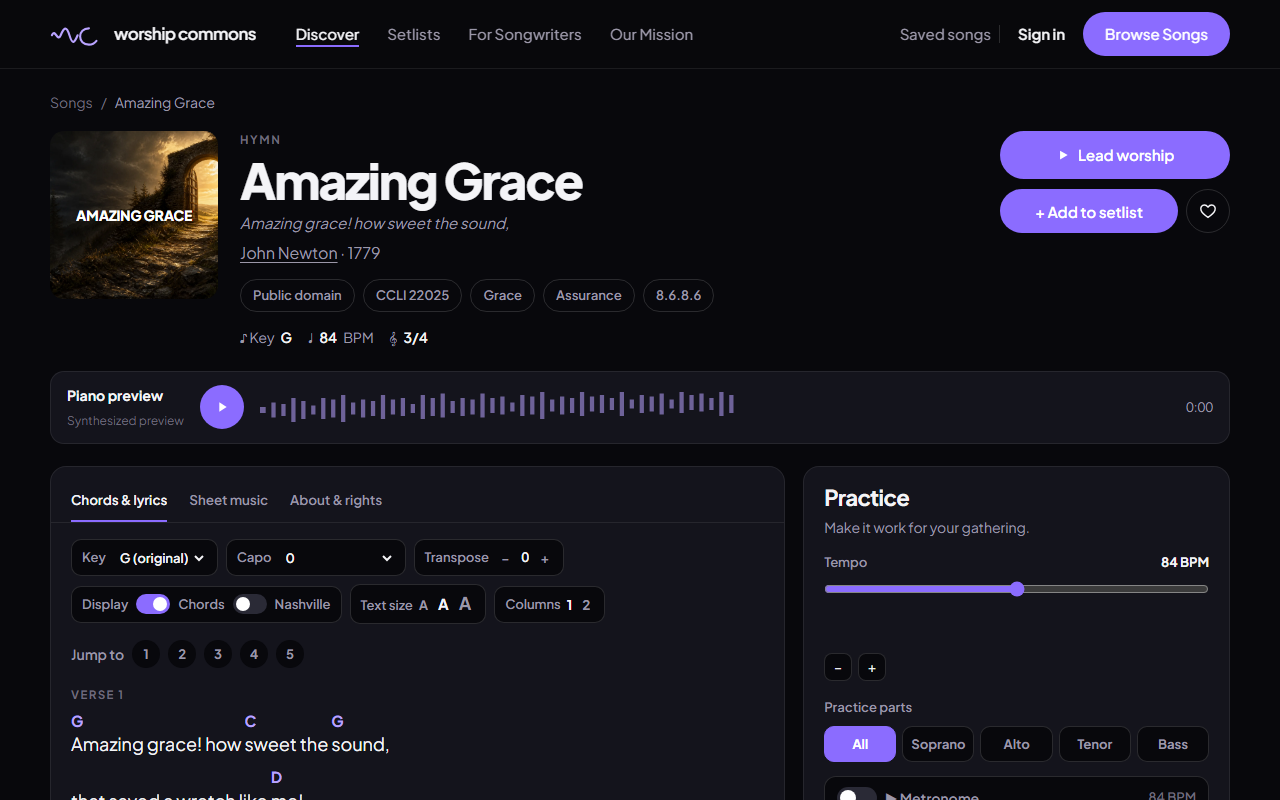
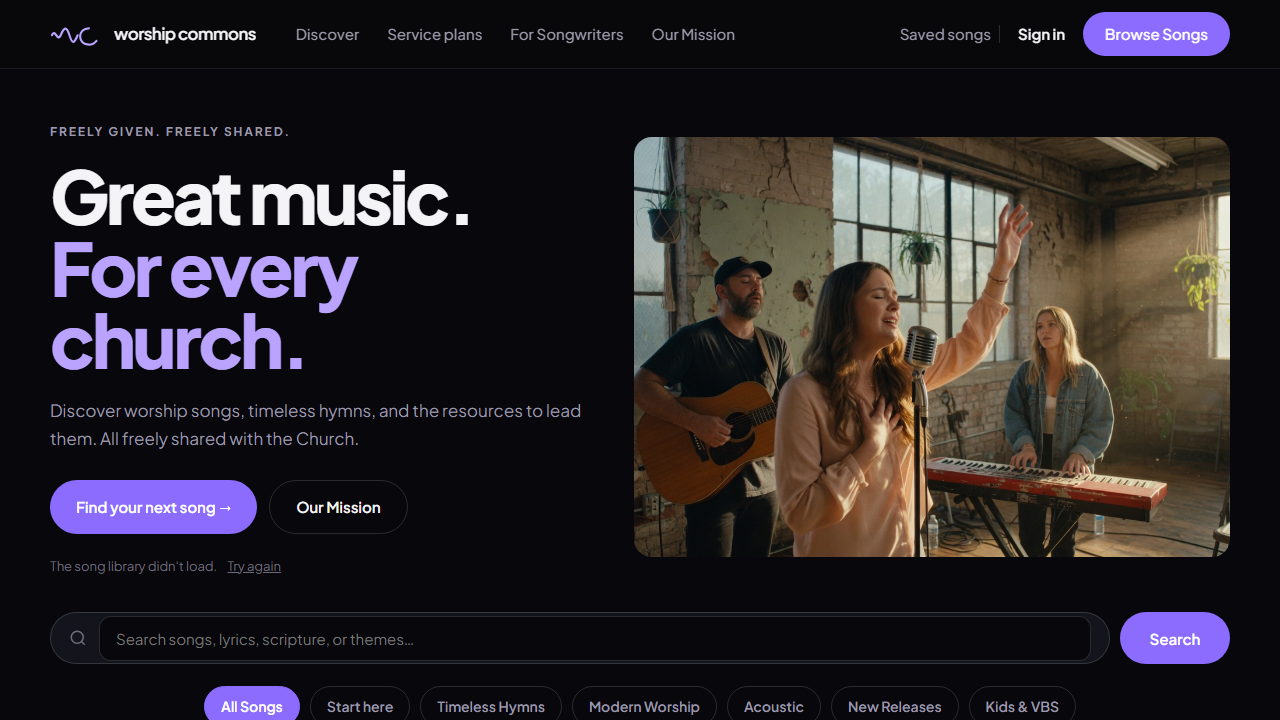
feat: keep the catalog loaded and fix the share line
Hold the song list for five minutes instead of dropping it when the tab regains focus. A failed catalog or song request shows a retry, rather than "0 songs" or "Song not found."

Share text no longer says a license is unnecessary. The public-domain deed still says commercial use is free.

Tests: catalog-load.spec.ts (5), prerender.test.mjs (14), locale key check.

diff --git a/tests/catalog-load.spec.ts b/tests/catalog-load.spec.ts
@@ -1,0 +1,82 @@
+import { test, expect } from "@playwright/test";
+
+const SONG = {
+  id: "YxPfAFYWOaG",
+  title: "Amazing Grace",
+  writer: "John Newton",
+  year: 1779,
+  language: "English",
+  license: "PD",
+  themes: "Grace",
+  songKey: "G",
+  bpm: 90,
+  timeSignature: "3/4",
+  confidence: "score",
+  hasChords: true,
+  hasScore: true,
+  sundayReady: false,
+  fileUrls: {},
+  downloadCount: 3,
+  saveCount: 1,
+  rank: 10
+};
+
+const isList = (url: string) => new URL(url).pathname.endsWith("/commons/songs");
+const isPage = (url: string) => /\/commons\/songs\/[^/]+\/page$/.test(new URL(url).pathname);
+
+test("home offers a retry when the catalog fails, and does not claim zero songs", async ({ page }) => {
+  let fail = true;
+  await page.route(isList, route => fail ? route.abort() : route.fulfill({ json: [SONG] }));
+  await page.goto("/");
+  await expect(page.getByTestId("catalog-error")).toBeVisible();
+  await expect(page.getByTestId("home-langs")).toHaveCount(0);
+  await expect(page.getByText("0 songs")).toHaveCount(0);
+  await page.addStyleTag({ content: ".rise{animation:none!important;opacity:1!important}" });
+  await page.getByTestId("catalog-error").scrollIntoViewIfNeeded();
+  await page.screenshot({ path: ".pr-screenshots/after.png" });
+  fail = false;
+  await page.getByTestId("catalog-retry").click();
+  await expect(page.getByTestId("home-langs")).toHaveText("1 languages");
+});
+
+test("library offers a retry instead of an empty catalog", async ({ page }) => {
+  await page.route(isList, route => route.abort());
+  await page.goto("/songs");
+  await expect(page.getByTestId("catalog-error")).toBeVisible();
+  await expect(page.getByText("No songs found")).toHaveCount(0);
+});
+
+test("a fresh catalog survives tab focus", async ({ page }) => {
+  let hits = 0;
+  await page.route(isList, route => { hits += 1; return route.fulfill({ json: [SONG] }); });
+  await page.goto("/");
+  await expect(page.getByRole("link", { name: "Amazing Grace" }).first()).toBeVisible();
+  await page.addStyleTag({ content: ".rise{animation:none!important;opacity:1!important}" });
+  await page.getByTestId("home-langs").scrollIntoViewIfNeeded();
+  await page.screenshot({ path: ".pr-screenshots/before.png" });
+  const afterLoad = hits;
+  await page.evaluate(() => window.dispatchEvent(new Event("focus")));
+  await page.getByRole("link", { name: "Find your next song" }).first().click();
+  await expect(page.getByRole("link", { name: "Amazing Grace" }).first()).toBeVisible();
+  expect(hits).toBe(afterLoad);
+});
+
+test("a song request that fails is not shown as a missing song", async ({ page }) => {
+  let fail = true;
+  await page.route(isPage, route => fail
+    ? route.fulfill({ status: 500, contentType: "application/json", body: "{}" })
+    : route.fulfill({ json: { song: SONG, history: [], family: [], similar: [] } }));
+  await page.goto("/songs/amazing-grace-YxPfAFYWOaG");
+  await expect(page.getByTestId("song-load-error")).toBeVisible();
+  await expect(page.getByText("Song not found.")).toHaveCount(0);
+  fail = false;
+  await page.getByTestId("song-retry").click();
+  await expect(page.getByRole("heading", { name: "Amazing Grace" })).toBeVisible();
+});
+
+test("a missing song is still not found", async ({ page }) => {
+  await page.route(isPage, route => route.fulfill({ status: 404, contentType: "application/json", body: "{}" }));
+  await page.goto("/songs/amazing-grace-YxPfAFYWOaG");
+  await expect(page.getByText("Song not found.")).toBeVisible();
+  await expect(page.getByTestId("song-load-error")).toHaveCount(0);
+});

diff --git a/src/pages/Songs.tsx b/src/pages/Songs.tsx
@@ -66,6 +66,8 @@ export const Songs: React.FC = () => {
   usePageMeta(t("Song library — WorshipCommons"), t("Search free worship songs by theme, scripture, key, tempo, or language. Chord charts and lyrics in any key."));
   const [params] = useSearchParams();
   const [songs, setSongs] = useState<Song[]>([]);
+  const [catalogStatus, setCatalogStatus] = useState<"loading" | "ready" | "error">("loading");
+  const [catalogAttempt, setCatalogAttempt] = useState(0);
   const [state, setState] = useState<Filters>(() => ({
     q: (params.get("q") || "").trim().toLowerCase(),
     themes: new Set(params.get("theme") ? [params.get("theme")] : []),
@@ -102,7 +104,15 @@ export const Songs: React.FC = () => {
     wantRef.current = null;
   };
 
-  useEffect(() => { loadSongs().then(setSongs); }, []);
+  useEffect(() => {
+    let live = true;
+    loadSongs().then(rows => {
+      if (!live) return;
+      setSongs(rows);
+      setCatalogStatus("ready");
+    }).catch(() => { if (live) setCatalogStatus("error"); });
+    return () => { live = false; };
+  }, [catalogAttempt]);
   // facet counts run matches() once per song per facet value — build the search text once, not tens of thousands of times
   const haystacks = useMemo(() => new Map(songs.map(s => [s, [s.title, s.writer, s.scripture, s.themes, s.firstLine, s.tune].join(" ").toLowerCase()])), [songs]);
   useEffect(() => () => stopAll(), []);
@@ -362,9 +372,13 @@ export const Songs: React.FC = () => {
           <div className="results-head">
             {/* numbers only — no user content in the interpolated values */}
             <span className="count" id="count" dangerouslySetInnerHTML={{
-              __html: list.length
-                ? t("Showing <b>{from}–{to}</b> of <b>{total}</b> songs", { from: (start + 1).toLocaleString(), to: (start + slice.length).toLocaleString(), total: list.length.toLocaleString() })
-                : t("No songs found")
+              __html: catalogStatus === "loading"
+                ? t("Loading…")
+                : catalogStatus === "error"
+                  ? t("The song library didn't load.")
+                  : list.length
+                    ? t("Showing <b>{from}–{to}</b> of <b>{total}</b> songs", { from: (start + 1).toLocaleString(), to: (start + slice.length).toLocaleString(), total: list.length.toLocaleString() })
+                    : t("No songs found")
             }} />
             <span id="active-chips">
               {chips.map(c => (
@@ -406,6 +420,12 @@ export const Songs: React.FC = () => {
                     </div>);
                 })}
               </div>
+            </div>
+          )}
+          {catalogStatus === "error" && (
+            <div className="empty" data-testid="catalog-error">
+              <h3>{t("The song library didn't load.")}</h3>
+              <p><button type="button" className="text-retry" data-testid="catalog-retry" onClick={() => setCatalogAttempt(n => n + 1)}>{t("Try again")}</button></p>
             </div>
           )}
           {list.length === 0 && songs.length > 0 && (

diff --git a/src/pages/Home.tsx b/src/pages/Home.tsx
@@ -37,13 +37,23 @@ export const Home: React.FC = () => {
   const location = useLocation();
   usePageMeta(t("WorshipCommons — Great music. For every church."), t("Discover worship songs, timeless hymns, and the resources to lead them. All freely shared with the Church."));
   const [songs, setSongs] = useState<Song[]>([]);
+  const [catalogStatus, setCatalogStatus] = useState<"loading" | "ready" | "error">("loading");
+  const [catalogAttempt, setCatalogAttempt] = useState(0);
   const [saved, setSaved] = useState<string[]>([]);
   const [playing, setPlaying] = useState<string | null>(null);
   const audioRef = useRef<HTMLAudioElement | null>(null);
   const tuneRef = useRef<TunePlayer | null>(null);
   const [q, setQ] = useState("");
 
-  useEffect(() => { loadSongs().then(setSongs); }, []);
+  useEffect(() => {
+    let live = true;
+    loadSongs().then(rows => {
+      if (!live) return;
+      setSongs(rows);
+      setCatalogStatus("ready");
+    }).catch(() => { if (live) setCatalogStatus("error"); });
+    return () => { live = false; };
+  }, [catalogAttempt]);
   useEffect(() => { if (user) libraryIds().then(setSaved); else setSaved([]); }, [user]);
   const stopAll = () => { audioRef.current?.pause(); tuneRef.current?.stop(); tuneRef.current = null; setPlaying(null); };
   useEffect(() => () => { audioRef.current?.pause(); tuneRef.current?.stop(); }, []);
@@ -98,8 +108,16 @@ export const Home: React.FC = () => {
               <Link to="/mission" className="btn btn-ghost btn-lg">{t("Our Mission")}</Link>
             </div>
             <p className="hero-proof rise rise-3">
-              <span><strong>{t("{count} songs", { count: songs.length.toLocaleString() })}</strong> {t("free for your church to use")}</span>
-              <span><strong data-testid="home-langs">{t("{count} languages", { count: langCount })}</strong></span>
+              {catalogStatus === "error" ? (
+                <span data-testid="catalog-error">{t("The song library didn't load.")} <button type="button" className="text-retry" data-testid="catalog-retry" onClick={() => setCatalogAttempt(n => n + 1)}>{t("Try again")}</button></span>
+              ) : catalogStatus === "loading" ? (
+                <span>{t("Loading…")}</span>
+              ) : (
+                <>
+                  <span><strong>{t("{count} songs", { count: songs.length.toLocaleString() })}</strong> {t("free for your church to use")}</span>
+                  <span><strong data-testid="home-langs">{t("{count} languages", { count: langCount })}</strong></span>
+                </>
+              )}
             </p>
           </div>
           <div className="hero-photo rise rise-3">

diff --git a/src/songs.ts b/src/songs.ts
@@ -100,7 +100,14 @@ export interface Song {
 }
 
 let cache: Song[] | null = null;
+let cacheAt = 0;
 const songCache = new Map<string, Song | null>();
+// The list is a few megabytes of file URLs. Hold a good response; do not drop it on tab focus.
+const LIST_TTL_MS = 5 * 60 * 1000;
+
+export function isMissingSong(err: unknown): boolean {
+  return err instanceof Error && /\(404\)/.test(err.message);
+}
 
 // the API ships one fileUrls map (media key → absolute URL); fan it back out to the
 // legacy per-file fields so the rest of the site keeps its vocabulary
@@ -284,25 +291,29 @@ export function songFromApi(raw: any): Song {
 // list payload is summaries only — no chordPro/scriptureText; use loadSong for the full record
 export function clearSongCache() {
   cache = null;
+  cacheAt = 0;
   songCache.clear();
 }
 
-if (typeof window !== "undefined") window.addEventListener("focus", clearSongCache);
-
 export async function loadSongs(): Promise<Song[]> {
-  if (!cache) cache = (await wcGet("/songs") as any[]).map(songFromApi);
-  return cache;
+  if (cache && Date.now() - cacheAt < LIST_TTL_MS) return cache;
+  const songs = (await wcGet("/songs") as any[]).map(songFromApi);
+  cache = songs;
+  cacheAt = Date.now();
+  return songs;
 }
 
 export async function loadSong(id: string): Promise<Song | null> {
-  if (!songCache.has(id)) {
-    try {
-      songCache.set(id, songFromApi(await wcGet(`/songs/${id}`)));
-    } catch {
-      songCache.set(id, null);
-    }
+  if (songCache.has(id)) return songCache.get(id) ?? null;
+  try {
+    const song = songFromApi(await wcGet(`/songs/${id}`));
+    songCache.set(id, song);
+    return song;
+  } catch (err) {
+    if (!isMissingSong(err)) throw err;
+    songCache.set(id, null);
+    return null;
   }
-  return songCache.get(id) ?? null;
 }
 
 export interface HistoryEntry { submissionId: string; submittedByName?: string; approvedAt?: string; note?: string; filesChanged?: { name: string; action: string }[] }
@@ -326,8 +337,9 @@ export async function loadSongPage(id: string): Promise<SongPageData | null> {
       family: (raw.family || []).map(songFromApi),
       similar: (raw.similar || []).map(songFromApi)
     };
-  } catch {
-    return null;
+  } catch (err) {
+    if (isMissingSong(err)) return null;
+    throw err;
   }
 }
 

diff --git a/src/pages/SongPage.tsx b/src/pages/SongPage.tsx
@@ -109,14 +109,21 @@ export const SongPage: React.FC = () => {
   // one fetch: detail + history + family + similar
   const [data, setData] = useState<SongPageData | null>(null);
   const [notFound, setNotFound] = useState(false);
+  const [loadError, setLoadError] = useState(false);
+  const [attempt, setAttempt] = useState(0);
   useEffect(() => {
     setData(null);
     setNotFound(false);
+    setLoadError(false);
     if (!id) return;
     let stale = false;
-    loadSongPage(id).then(d => { if (stale) return; if (d) setData(d); else setNotFound(true); });
+    loadSongPage(id).then(d => {
+      if (stale) return;
+      if (d) setData(d);
+      else setNotFound(true);
+    }).catch(() => { if (!stale) setLoadError(true); });
     return () => { stale = true; };
-  }, [id, user]);
+  }, [id, user, attempt]);
   const song = data?.song ?? null;
   const [supportLinks, setSupportLinks] = useState<WriterLink[]>([]);
   useEffect(() => {
@@ -219,9 +226,12 @@ export const SongPage: React.FC = () => {
 
   usePageMeta(
     song ? t("{title} — free chords and lyrics | WorshipCommons", { title: song.title }) : "WorshipCommons",
-    song ? t("Free chord chart, lyrics, and melody for {title} ({writer}, {year}). Transpose to any key, print it, project it, sing it — no license needed.", { title: song.title, writer: song.writer, year: song.year }) : undefined
+    song ? t("Free chord chart, lyrics, and melody for {title} ({writer}, {year}). Transpose to any key, print it, project it, and sing it in worship.", { title: song.title, writer: song.writer, year: song.year }) : undefined
   );
 
+  if (loadError) {
+    return <main className="wrap"><p className="crumb" style={{ padding: "60px 0" }} data-testid="song-load-error">{t("This song didn't load.")} <button type="button" className="text-retry" data-testid="song-retry" onClick={() => setAttempt(n => n + 1)}>{t("Try again")}</button></p></main>;
+  }
   if (notFound) {
     return <main className="wrap"><p className="crumb" style={{ padding: "60px 0" }}>{t("Song not found.")} <Link to="/songs">{t("← All songs")}</Link></p></main>;
   }

diff --git a/src/locales/ml.ts b/src/locales/ml.ts
@@ -169,10 +169,13 @@ const ml: Record<string, string> = {
 
   // song page
   "{title} — free chords and lyrics | WorshipCommons": "{title} — സൗജന്യ കോർഡുകളും വരികളും | WorshipCommons",
-  "Free chord chart, lyrics, and melody for {title} ({writer}, {year}). Transpose to any key, print it, project it, sing it — no license needed.": "{title} ({writer}, {year}) എന്ന പാട്ടിന്റെ സൗജന്യ കോർഡ് ചാർട്ട്, വരികൾ, ഈണം. ഏതു കീയിലേക്കും മാറ്റുക, പ്രിന്റ് ചെയ്യുക, പ്രൊജക്ട് ചെയ്യുക, പാടുക — ലൈസൻസ് വേണ്ട.",
+  "Free chord chart, lyrics, and melody for {title} ({writer}, {year}). Transpose to any key, print it, project it, and sing it in worship.": "{title} ({writer}, {year}) എന്ന പാട്ടിന്റെ സൗജന്യ കോർഡ് ചാർട്ട്, വരികൾ, ഈണം. ഏതു കീയിലേക്കും മാറ്റുക, പ്രിന്റ് ചെയ്യുക, പ്രൊജക്ട് ചെയ്യുക, ആരാധനയിൽ പാടുക.",
   "Song not found.": "പാട്ട് കണ്ടെത്തിയില്ല.",
   "← All songs": "← എല്ലാ പാട്ടുകളും",
   "Loading…": "ലോഡ് ചെയ്യുന്നു…",
+  "The song library didn't load.": "പാട്ടുശേഖരം ലോഡ് ആയില്ല.",
+  "This song didn't load.": "ഈ പാട്ട് ലോഡ് ആയില്ല.",
+  "Try again": "വീണ്ടും ശ്രമിക്കുക",
   "Free for worship": "ആരാധനയ്ക്ക് സൗജന്യം",
   "Words and music by": "വരികളും സംഗീതവും",
   "Song structure": "പാട്ടിന്റെ ഘടന",

diff --git a/src/locales/ru.ts b/src/locales/ru.ts
@@ -169,10 +169,13 @@ const ru: Record<string, string> = {
 
   // song page
   "{title} — free chords and lyrics | WorshipCommons": "{title} — бесплатные аккорды и текст | WorshipCommons",
-  "Free chord chart, lyrics, and melody for {title} ({writer}, {year}). Transpose to any key, print it, project it, sing it — no license needed.": "Бесплатные аккорды, текст и мелодия песни «{title}» ({writer}, {year}). Транспонируйте в любую тональность, печатайте, выводите на экран, пойте — без лицензии.",
+  "Free chord chart, lyrics, and melody for {title} ({writer}, {year}). Transpose to any key, print it, project it, and sing it in worship.": "Бесплатные аккорды, текст и мелодия песни «{title}» ({writer}, {year}). Транспонируйте в любую тональность, печатайте, выводите на экран и пойте на богослужении.",
   "Song not found.": "Песня не найдена.",
   "← All songs": "← Все песни",
   "Loading…": "Загрузка…",
+  "The song library didn't load.": "Библиотека песен не загрузилась.",
+  "This song didn't load.": "Эта песня не загрузилась.",
+  "Try again": "Повторить",
   "Free for worship": "Бесплатно для поклонения",
   "Words and music by": "Слова и музыка:",
   "Song structure": "Структура песни",

diff --git a/index.html b/index.html
@@ -12,13 +12,13 @@
 <meta charset="utf-8">
 <meta name="viewport" content="width=device-width, initial-scale=1">
 <title>WorshipCommons — Worship music, set free</title>
-<meta name="description" content="An open library of worship music your church can sing free — public domain hymns and writer-shared songs with chord charts, lyrics, transposition, and audio. No subscriptions, no licenses, no strings.">
+<meta name="description" content="An open library of worship music your church can sing free — public domain hymns and writer-shared songs with chord charts, lyrics, transposition, and audio.">
 <link rel="icon" href="/favicon.svg" type="image/svg+xml">
 <link rel="alternate" type="application/atom+xml" title="WorshipCommons — new songs" href="/feed.xml">
 <meta property="og:site_name" content="WorshipCommons">
 <meta property="og:type" content="website">
 <meta property="og:title" content="WorshipCommons — Worship music, set free">
-<meta property="og:description" content="Free worship songs for your church: chord charts, lyrics, any key. Public domain hymns and writer-shared songs, no licenses needed.">
+<meta property="og:description" content="Free worship songs for your church: chord charts, lyrics, any key. Public domain hymns and writer-shared songs.">
 <meta property="og:image" content="https://worshipcommons.org/og/site.png">
 <meta name="twitter:card" content="summary_large_image">
 <link rel="preconnect" href="https://fonts.googleapis.com">

diff --git a/src/locales/fr.ts b/src/locales/fr.ts
@@ -169,10 +169,13 @@ const fr: Record<string, string> = {
 
   // song page
   "{title} — free chords and lyrics | WorshipCommons": "{title} — accords et paroles gratuits | WorshipCommons",
-  "Free chord chart, lyrics, and melody for {title} ({writer}, {year}). Transpose to any key, print it, project it, sing it — no license needed.": "Grille d’accords, paroles et mélodie gratuites pour {title} ({writer}, {year}). Transposez dans toute tonalité, imprimez, projetez, chantez — sans licence.",
+  "Free chord chart, lyrics, and melody for {title} ({writer}, {year}). Transpose to any key, print it, project it, and sing it in worship.": "Grille d’accords, paroles et mélodie gratuites pour {title} ({writer}, {year}). Transposez dans toute tonalité, imprimez, projetez et chantez-la dans le culte.",
   "Song not found.": "Chant introuvable.",
   "← All songs": "← Tous les chants",
   "Loading…": "Chargement…",
+  "The song library didn't load.": "La bibliothèque de chants ne s’est pas chargée.",
+  "This song didn't load.": "Ce chant ne s’est pas chargé.",
+  "Try again": "Réessayer",
   "Free for worship": "Gratuit pour la louange",
   "Words and music by": "Paroles et musique de",
   "Song structure": "Structure du chant",

diff --git a/src/locales/hu.ts b/src/locales/hu.ts
@@ -169,10 +169,13 @@ const hu: Record<string, string> = {
 
   // song page
   "{title} — free chords and lyrics | WorshipCommons": "{title} — ingyenes akkordok és szöveg | WorshipCommons",
-  "Free chord chart, lyrics, and melody for {title} ({writer}, {year}). Transpose to any key, print it, project it, sing it — no license needed.": "Ingyenes akkordlap, szöveg és dallam ehhez: {title} ({writer}, {year}). Transzponáld bármely hangnembe, nyomtasd, vetítsd, énekeld — licenc nélkül.",
+  "Free chord chart, lyrics, and melody for {title} ({writer}, {year}). Transpose to any key, print it, project it, and sing it in worship.": "Ingyenes akkordlap, szöveg és dallam ehhez: {title} ({writer}, {year}). Transzponáld bármely hangnembe, nyomtasd, vetítsd, és énekeld az istentiszteleten.",
   "Song not found.": "Az ének nem található.",
   "← All songs": "← Minden ének",
   "Loading…": "Betöltés…",
+  "The song library didn't load.": "Az énekgyűjtemény nem töltődött be.",
+  "This song didn't load.": "Ez az ének nem töltődött be.",
+  "Try again": "Újra",
   "Free for worship": "Ingyenes a dicsőítéshez",
   "Words and music by": "Szöveg és zene:",
   "Song structure": "Az ének felépítése",

diff --git a/src/pages/Transcribe.tsx b/src/pages/Transcribe.tsx
@@ -18,7 +18,7 @@ export const Transcribe: React.FC = () => {
   const id = idOf(useParams().id);
   const { user } = useAuth();
   const location = useLocation();
-  const { song, notFound } = useSong(id);
+  const { song, notFound, loadError, retry } = useSong(id);
   const [abc, setAbc] = useState("");
   const [busy, setBusy] = useState(false);
   const [midiState, setMidiState] = useState<"idle" | "loading" | "playing">("idle");
@@ -43,6 +43,7 @@ export const Transcribe: React.FC = () => {
   usePageMeta(song ? t("Transcribe {title} | WorshipCommons", { title: song.title }) : "WorshipCommons");
 
   if (!user) return <Navigate to={`/login?next=${encodeURIComponent(location.pathname)}`} replace />;
+  if (loadError) return <main className="wrap"><p className="crumb" style={{ padding: "60px 0" }} data-testid="song-load-error">{t("This song didn't load.")} <button type="button" className="text-retry" onClick={retry}>{t("Try again")}</button></p></main>;
   if (notFound) return <main className="wrap"><p className="crumb" style={{ padding: "60px 0" }}>{t("Song not found.")} <Link to="/songs">{t("← All songs")}</Link></p></main>;
   if (!song) return <main className="wrap"><p style={{ padding: "60px 0" }}>{t("Loading…")}</p></main>;
 

diff --git a/src/locales/de.ts b/src/locales/de.ts
@@ -169,10 +169,13 @@ const de: Record<string, string> = {
 
   // song page
   "{title} — free chords and lyrics | WorshipCommons": "{title} — kostenlose Akkorde und Text | WorshipCommons",
-  "Free chord chart, lyrics, and melody for {title} ({writer}, {year}). Transpose to any key, print it, project it, sing it — no license needed.": "Kostenloses Akkordblatt, Text und Melodie für {title} ({writer}, {year}). In jede Tonart transponieren, drucken, projizieren, singen — ohne Lizenz.",
+  "Free chord chart, lyrics, and melody for {title} ({writer}, {year}). Transpose to any key, print it, project it, and sing it in worship.": "Kostenloses Akkordblatt, Text und Melodie für {title} ({writer}, {year}). In jede Tonart transponieren, drucken, projizieren und im Gottesdienst singen.",
   "Song not found.": "Lied nicht gefunden.",
   "← All songs": "← Alle Lieder",
   "Loading…": "Wird geladen…",
+  "The song library didn't load.": "Die Liedersammlung wurde nicht geladen.",
+  "This song didn't load.": "Dieses Lied wurde nicht geladen.",
+  "Try again": "Erneut versuchen",
   "Free for worship": "Kostenlos für den Lobpreis",
   "Words and music by": "Text und Musik von",
   "Song structure": "Liedaufbau",
